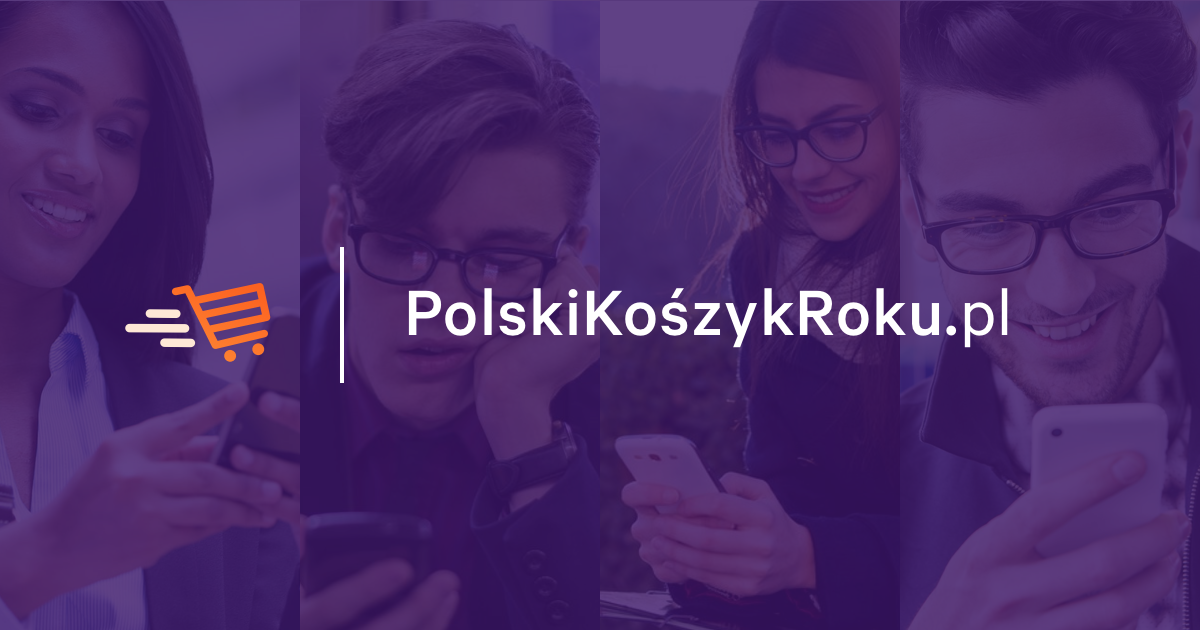
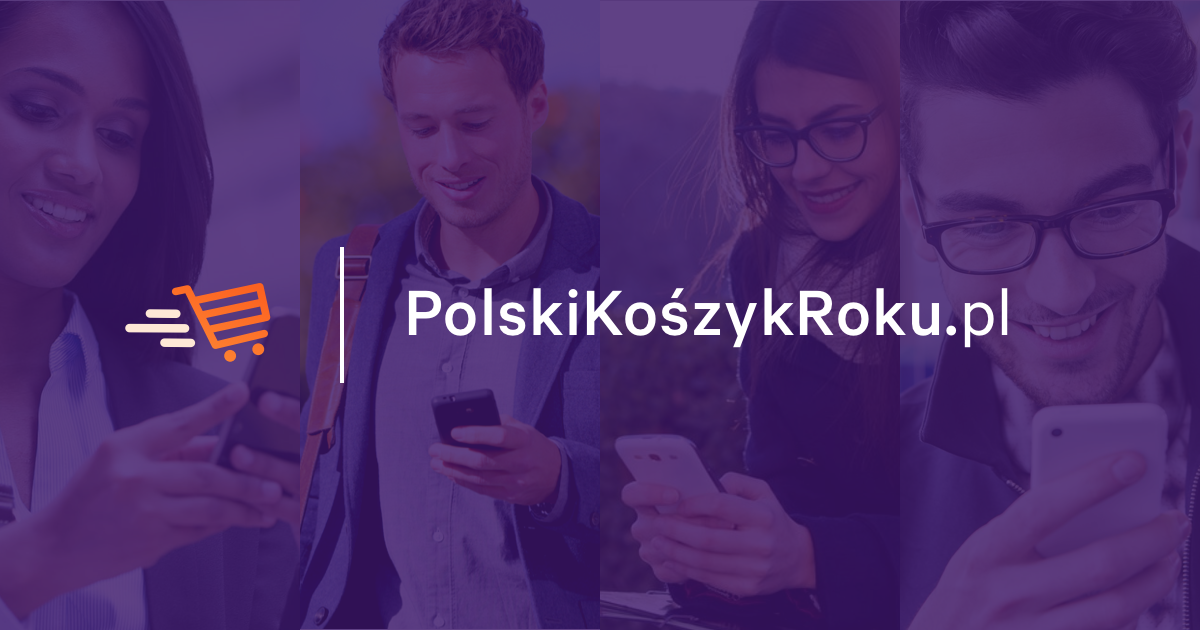
update

Changed region(s): [[0.2467, 0.0, 0.5242, 1.0], [0.4933, 0.4524, 0.5242, 0.4825]]

diff --git a/index.html b/index.html
@@ -86,8 +86,10 @@ height="0" width="0" style="display:none;visibility:hidden"></iframe></noscript>
     <div class="parallax">
         <header class="homepage-header event-header container">
             <div class="homepage-header__image">
-                <img src="/static/img/homepage/macbook.png" srcset="/static/img/homepage/macbook.png 1x, /static/img/homepage/macbook%402x.png 2x" alt="Ukázkový e-shop" class="homepage-header__screen layer" data-depth="0.2">
-                <!-- <div class="event-stats layer" data-depth="0.5">
+                <img src="/static/img/homepage/final2.png" alt="Ukázkový e-shop" class="homepage-header__screen layer" data-depth="0.2">
+                <!-- 
+                    srcset="/static/img/homepage/macbook.png 1x, /static/img/homepage/macbook%402x.png 2x"
+                <div class="event-stats layer" data-depth="0.5">
                     <img src="/static/img/event/chart.png" srcset="/static/img/event/chart.png 1x, /static/img/event/chart%402x.png 2x" alt="Ukázkový graf" class="event-stats__chart">
                     <div class="event-stats__content">
                         <p><span class="text-semibold text-black">71 %</span> <small>(od roku 2016 <span class="text-green text-semibold">+6,7%)</span></small></p>
@@ -242,11 +244,11 @@ height="0" width="0" style="display:none;visibility:hidden"></iframe></noscript>
                 <div class="event-signup__person event-signup__person--center"><img src="/static/img/homepage/experts/hurych.jpg" alt="Lukáš Hurych"></div> -->
             </div>
             <div class="event-signup__col event-signup__col--form">
-                <h1 class="event-signup__heading smaller">Nie przegap <span class="nowrap">Polskiego Koszyka Roku&nbsp;2018</span></h1>
+                <h1 class="event-signup__heading smaller"><span class="nowrap">Polski Koszyk Roku&nbsp;2018</span> - nie przegap!</h1>
                 <form action="" class="event-signup__form">
 
                     <div class="event-signup__field">
-                        <div class="input field required" data-alert="Vyplňte prosím telefon">
+                        <div class="input field required" data-alert="Proszę podać numer telefonu">
                             <input type="tel" class="input__element" tabindex="1" id="phone" name="phone">
                             <label for="phone" class="input__label">TELEFON</label>
                             <div class="input__line"></div>
@@ -254,7 +256,7 @@ height="0" width="0" style="display:none;visibility:hidden"></iframe></noscript>
                         </div>
                     </div>
                     <div class="event-signup__field">
-                        <div class="input field required" data-alert="Vyplňte prosím e&#8209;mail
+                        <div class="input field required" data-alert="Proszę podać e&#8209;mail
 ">
                             <input type="email" class="input__element" tabindex="1" id="email" name="mail">
                             <label for="email" class="input__label">E-MAIL</label>
@@ -263,7 +265,7 @@ height="0" width="0" style="display:none;visibility:hidden"></iframe></noscript>
                         </div>
                     </div>
                     <div class="event-signup__field">
-                        <div class="input field required" data-alert="Vyplňte prosím jméno">
+                        <div class="input field required" data-alert="Proszę podać imię">
                             <input type="text" class="input__element" tabindex="1" id="name" name="name">
                             <label for="name" class="input__label">IMIĘ</label>
                             <div class="input__line"></div>
@@ -271,17 +273,17 @@ height="0" width="0" style="display:none;visibility:hidden"></iframe></noscript>
                         </div>
                     </div>
                     <div class="event-signup__field">
-                        <div class="input field required" data-alert="Vyplňte prosím web">
+                        <div class="input field required" data-alert="Proszę podać web">
                             <input type="text" class="input__element" tabindex="1" id="web" name="web">
                             <label for="web" class="input__label">WEB</label>
                             <div class="input__line"></div>
                             <div class="input__messages messages"></div>
                         </div>
                     </div>
-                    <button type="submit" class="event-signup__cta button button--orange">Pošlete mi pozvánku</button>
+                    <button type="submit" class="event-signup__cta button button--orange">Chcę otrzymać zaproszenie</button>
 
                     <div class="event-signup__success">
-                        <i class="icon-yes"></i> <span>Děkujeme za váš zájem, dáme vám v čas vědět.</span>
+                        <i class="icon-yes"></i> <span>Dziękujemy za państwa zainteresowanie. O wszystkim, będziemy państwa informować w odpowiednim czasie.</span>
                     </div>
                 </form> 
                <!-- <div id="pl-contact-box" style="display: flex; flex-flow: row wrap; justify-content: center; align-items: center; margin-top: 50px; ">
@@ -318,13 +320,13 @@ height="0" width="0" style="display:none;visibility:hidden"></iframe></noscript>
                 <img src="/static/img/homepage/partners/semstorm.png" alt="Logo Semstorm.pl" width="221" class="event-partners__img event-partners__img--block">
 
             </div>
-            <div class="event-partners__col">
-                <!-- <h3 class="event-partners__heading">Główny partnerzy</h3> -->
+            <!-- <div class="event-partners__col">
+                <h3 class="event-partners__heading">Główny partnerzy</h3>
 
                 <div class="event-partners__row">
                     <img src="/static/img/homepage/partners/heureka.svg" alt="Logo Heureka.cz" width="139" class="event-partners__img">
                     <img src="/static/img/homepage/partners/acomware.png" alt="Logo Acomware.cz" width="150" class="event-partners__img">
-                    <img src="/static/img/homepage/partners/skrz.svg" alt="Logo Skrz.cz" width="127" class="event-partners__img">
+                    <!-- <img src="/static/img/homepage/partners/skrz.svg" alt="Logo Skrz.cz" width="127" class="event-partners__img"> 
                     <img src="/static/img/homepage/partners/miton.png" alt="Logo Miton.cz" width="117" class="event-partners__img">
                 </div>
                 <div class="event-partners__row">
@@ -334,7 +336,7 @@ height="0" width="0" style="display:none;visibility:hidden"></iframe></noscript>
                     <img src="/static/img/homepage/partners/jan-rezac.svg" alt="Logo Houseofrezac.cz" width="30" class="event-partners__img">
                     <img src="/static/img/homepage/partners/jankvasnicka.png" alt="Logo Kvasnickajan.com" width="92" class="event-partners__img">
                 </div>
-            </div>
+            </div>-->
 
         </section>
     </div>
@@ -373,15 +375,8 @@ height="0" width="0" style="display:none;visibility:hidden"></iframe></noscript>
                     <div class="footer-info__contact">
                         <h3 class="footer-info__heading footer-info__heading--contact">Chcesz dowiedzieć się czegoś więcej albo wyrazić swoją opinię?</h3>
                         <div class="contact">
-    <div class="contact__person">
-        <span>
-            Martin Šťastný
-        </span>
-        <span>
-            <a href="mailto:ckr@twisto.cz">ckr@twisto.cz</a>
-        </span>
-    </div>
-    <div class="contact__person">
+  
+    <div class="contact__person" id="jan">
         <span>
             Jan Husták <span>(média)</span>
         </span>
@@ -390,6 +385,15 @@ height="0" width="0" style="display:none;visibility:hidden"></iframe></noscript>
         </span>
         <span>
             +420 604 346 032
+        </span>
+    </div>
+
+      <div class="contact__person">
+        <span>
+            Lidia Piekarska
+        </span>
+        <span>
+            <a href="mailto:pkr@twisto.pl">pkr@twisto.pl</a>
         </span>
     </div>
 </div>

diff --git a/main.css b/main.css
@@ -1142,6 +1142,14 @@ li {
   -ms-flex: 1 50%;
   flex: 1 50%;
 }
+.contact__person#jan{
+  opacity: 0;
+}
+@media screen and (max-width: 660px){
+  .contact__person#jan{
+    display: none;
+  }
+}
 .contact__person span {
   padding-bottom: 20px;
   display: block;
@@ -4415,7 +4423,6 @@ div.flex-ver-start {
 .event-partners__col:nth-of-type(1) {
   padding-left: 0;
   /*border-bottom: 1px solid #edeff3;*/
-  padding-bottom: 0;
 }
 @media (min-width: 1220px) {
   .event-partners__col:nth-of-type(1) {
@@ -4432,7 +4439,7 @@ div.flex-ver-start {
   padding-right: 0;
 }
 .event-partners__heading {
-  margin-bottom: 50px;
+  margin-bottom: 30px;
 }
 .event-partners__img {
   display: inline-block;
